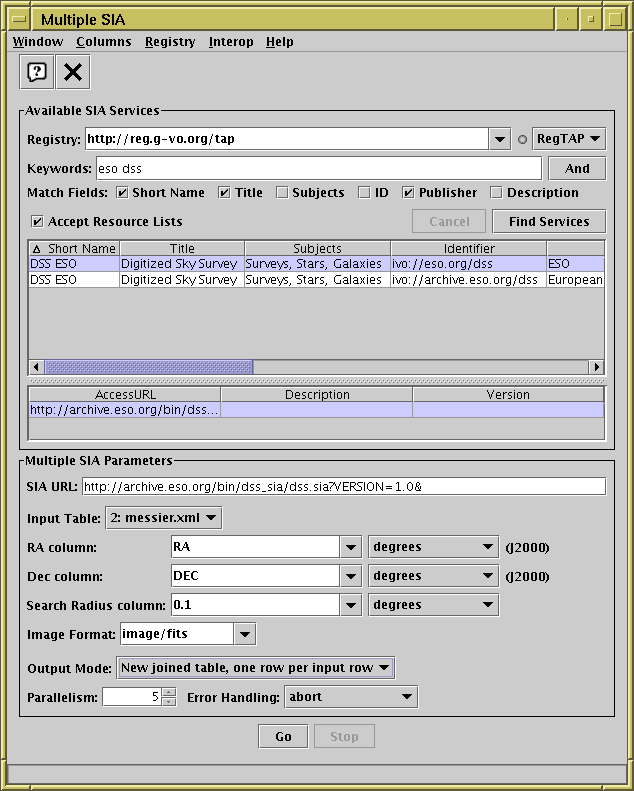
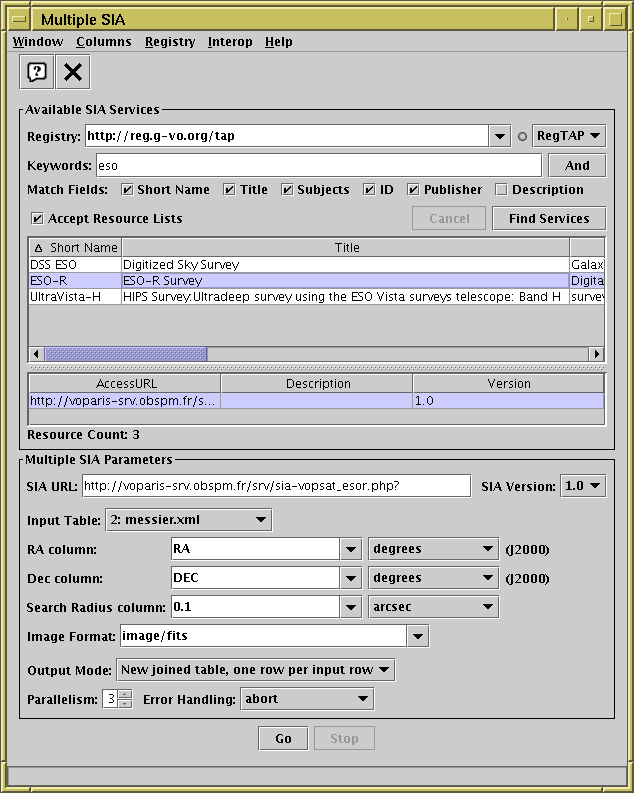
topcat: add basic SIAv2 support
The single and multiple SIA query windows will now pick up SIA
version 2 services in the registry search alongside version 1 services,
and will execute positional queries on them using a v2-compliant URL.
A little version selector/indicator component is displayed alongside
the URL.

This doesn't give you access to the upgraded features of SIAv2,
but do let you perform positional queries against services supporting
the newer protocol version as well as the older one.

diff --git a/vo/src/main/uk/ac/starlink/vo/SiapTableLoadDialog.java b/vo/src/main/uk/ac/starlink/vo/SiapTableLoadDialog.java
@@ -9,6 +9,8 @@ import javax.swing.Box;
 import javax.swing.JComboBox;
 import javax.swing.JComponent;
 import javax.swing.JLabel;
+import javax.swing.event.ListSelectionEvent;
+import javax.swing.event.ListSelectionListener;
 import uk.ac.starlink.table.DefaultValueInfo;
 import uk.ac.starlink.table.DescribedValue;
 import uk.ac.starlink.table.StarTable;
@@ -34,7 +36,8 @@ public class SiapTableLoadDialog extends SkyDalTableLoadDialog {
     private DoubleValueField raField_;
     private DoubleValueField decField_;
     private DoubleValueField sizeField_;
-    private JComboBox<String> formatSelector_;
+    private JComboBox<Object> formatSelector_;
+    private JComboBox<SiaVersion> versionSelector_;
     private static final ValueInfo SIZE_INFO =
         new DefaultValueInfo( "Angular Size", Double.class,
                               "Angular size of the search region"
@@ -60,9 +63,35 @@ public class SiapTableLoadDialog extends SkyDalTableLoadDialog {
         sizeField_.getEntryField().setText( "0" );
         skyEntry.addField( sizeField_ );
 
+        /* Version selector. */
+        versionSelector_ = new JComboBox<>( SiaVersion.values() );
+        final RegistryPanel regPanel = getRegistryPanel();
+        ListSelectionListener serviceListener = new ListSelectionListener() {
+            public void valueChanged( ListSelectionEvent evt ) {
+                RegCapabilityInterface[] intfs =
+                    regPanel.getSelectedCapabilities();
+                if ( intfs.length == 1 ) {
+                    SiaVersion version = SiaVersion.forInterface( intfs[ 0 ] );
+                    if ( version != null ) {
+                        versionSelector_.setSelectedItem( version );
+                    }
+                }
+            }
+        };
+        regPanel.getResourceSelectionModel()
+                .addListSelectionListener( serviceListener );
+        regPanel.getCapabilitySelectionModel()
+                .addListSelectionListener( serviceListener );
+        JComponent versionLine = Box.createHorizontalBox();
+        versionLine.add( Box.createHorizontalStrut( 10 ) );
+        versionLine.add( new JLabel( "SIA Version: " ) );
+        versionLine.add( new ShrinkWrapper( versionSelector_ ) );
+        getServiceUrlBox().add( versionLine );
+
         /* Add a selector for image format. */
         JComponent formatLine = Box.createHorizontalBox();
-        formatSelector_ = new JComboBox<String>( getFormatOptions() );
+        formatSelector_ =
+            new JComboBox<Object>( SiaFormatOption.getStandardOptions() );
         formatSelector_.setEditable( true );
         formatSelector_.setSelectedIndex( 0 );
         formatLine.add( new JLabel( "Image Format: " ) );
@@ -74,18 +103,16 @@ public class SiapTableLoadDialog extends SkyDalTableLoadDialog {
     }
 
     public TableLoader createTableLoader() {
-        String serviceUrl = getServiceUrl();
+        final String serviceUrl = getServiceUrl();
         checkUrl( serviceUrl );
-        double ra = raField_.getValue();
-        double dec = decField_.getValue();
-        double size = sizeField_.getValue();
-        final DalQuery query =
-            new DalQuery( serviceUrl, "SIA", ra, dec, size, coding_ );
-        Object format = formatSelector_.getSelectedItem();
-        if ( format instanceof String &&
-             format.toString().trim().length() > 0 ) {
-            query.addArgument( "FORMAT", format.toString() );
-        }
+        final double ra = raField_.getValue();
+        final double dec = decField_.getValue();
+        final double size = sizeField_.getValue();
+        final SiaVersion siaVersion =
+            versionSelector_.getItemAt( versionSelector_.getSelectedIndex() );
+        final SiaFormatOption format =
+            SiaFormatOption.fromObject( formatSelector_.getSelectedItem() );
+
         final List<DescribedValue> metadata = new ArrayList<DescribedValue>();
         metadata.addAll( Arrays.asList( new DescribedValue[] {
             raField_.getDescribedValue(),
@@ -97,31 +124,15 @@ public class SiapTableLoadDialog extends SkyDalTableLoadDialog {
         return new TableLoader() {
             public TableSequence loadTables( StarTableFactory factory )
                     throws IOException {
-                StarTable st = query.execute( factory );
+                StarTable st =
+                    siaVersion.executeQuery( serviceUrl, ra, dec, size, format,
+                                             factory, coding_ );
                 st.getParameters().addAll( metadata );
                 return Tables.singleTableSequence( st );
             }
             public String getLabel() {
                 return summary;
             }
-        };
-    }
-
-    /**
-     * Returns the list of standard options provided by the Format selector.
-     * These are taken from the SIA standard; they are not exhaustive, but
-     * represent some of the more useful options.  The user is able to
-     * enter custom items as an alternative.
-     * The first element in the returned list is a reasonable default.
-     *
-     * @return  format option strings
-     */
-    public static String[] getFormatOptions() {
-        return new String[] {
-            "image/fits",
-            "GRAPHIC",
-            "ALL",
-            "",
         };
     }
 }

diff --git a/topcat/src/main/uk/ac/starlink/topcat/join/SiaMultiWindow.java b/topcat/src/main/uk/ac/starlink/topcat/join/SiaMultiWindow.java
@@ -8,6 +8,8 @@ import javax.swing.JComboBox;
 import javax.swing.JComponent;
 import javax.swing.JLabel;
 import javax.swing.JPanel;
+import javax.swing.event.ListSelectionEvent;
+import javax.swing.event.ListSelectionListener;
 import uk.ac.starlink.table.DefaultValueInfo;
 import uk.ac.starlink.table.StarTableFactory;
 import uk.ac.starlink.table.ValueInfo;
@@ -18,6 +20,7 @@ import uk.ac.starlink.ttools.cone.SiaConeSearcher;
 import uk.ac.starlink.util.ContentCoding;
 import uk.ac.starlink.util.gui.ShrinkWrapper;
 import uk.ac.starlink.vo.Capability;
+import uk.ac.starlink.vo.RegCapabilityInterface;
 import uk.ac.starlink.vo.RegistryPanel;
 import uk.ac.starlink.vo.SiaFormatOption;
 import uk.ac.starlink.vo.SiaVersion;
@@ -46,18 +49,21 @@ public class SiaMultiWindow extends DalMultiWindow {
      */
     private static class SiaMultiService implements DalMultiService {
 
-        @SuppressWarnings({"unchecked","rawtypes"})
-        private final JComboBox formatSelector_
-            = new JComboBox( SiapTableLoadDialog.getFormatOptions() );
-
+        private final JComboBox<Object> formatSelector_;
+        private final JComboBox<SiaVersion> versionSelector_;
         private final JComponent controlBox_;
+        private final JComponent versionBox_;
 
         /**
          * Constructor.
          */
         SiaMultiService() {
+            formatSelector_ =
+                new JComboBox<Object>( SiaFormatOption.getStandardOptions() );
             formatSelector_.setSelectedIndex( 0 );
             formatSelector_.setEditable( true );
+
+            versionSelector_ = new JComboBox<>( SiaVersion.values() );
 
             final JLabel formatLabel = new JLabel( "Image Format: " );
             controlBox_ = new JPanel() {
@@ -74,6 +80,10 @@ public class SiaMultiWindow extends DalMultiWindow {
             line.add( new ShrinkWrapper( formatSelector_ ) );
             line.add( Box.createHorizontalGlue() );
             controlBox_.add( line );
+
+            versionBox_ = Box.createHorizontalBox();
+            versionBox_.add( new JLabel( "SIA Version: " ) );
+            versionBox_.add( new ShrinkWrapper( versionSelector_ ) );
         }
 
         public String getName() {
@@ -116,15 +126,33 @@ public class SiaMultiWindow extends DalMultiWindow {
         }
 
         public JComponent getVersionComponent() {
-            return null;
+            return versionBox_;
         }
 
-        public void init( RegistryPanel regPanel ) {
+        public void init( final RegistryPanel regPanel ) {
+            ListSelectionListener servListener = new ListSelectionListener() {
+                public void valueChanged( ListSelectionEvent evt ) {
+                    RegCapabilityInterface[] intfs =
+                        regPanel.getSelectedCapabilities();
+                    if ( intfs.length == 1 ) {
+                        SiaVersion vers = SiaVersion.forInterface( intfs[ 0 ] );
+                        if ( vers != null ) {
+                            versionSelector_.setSelectedItem( vers );
+                        }   
+                    }
+                }
+            };
+            regPanel.getResourceSelectionModel()
+                    .addListSelectionListener( servListener );
+            regPanel.getCapabilitySelectionModel()
+                    .addListSelectionListener( servListener );
         }
 
         public ConeSearcher createSearcher( URL url, StarTableFactory tfact,
                                             ContentCoding coding ) {
-            SiaVersion version = SiaVersion.V10;
+            SiaVersion version = 
+                versionSelector_
+               .getItemAt( versionSelector_.getSelectedIndex() );
             SiaFormatOption format =
                 SiaFormatOption.fromObject( formatSelector_.getSelectedItem() );
             return new SiaConeSearcher( url.toString(), version, format,

diff --git a/vo/src/main/uk/ac/starlink/vo/DalTableLoadDialog.java b/vo/src/main/uk/ac/starlink/vo/DalTableLoadDialog.java
@@ -42,6 +42,7 @@ public abstract class DalTableLoadDialog
     private final boolean autoQuery_;
     private final RegistryQueryFactory queryFactory_;
     private JTextField urlField_;
+    private JComponent urlBox_;
     private static final Logger logger_ =
         Logger.getLogger( "uk.ac.starlink.vo" );
 
@@ -84,10 +85,10 @@ public abstract class DalTableLoadDialog
          * registry search, but it may alternatively be filled by the
          * user typing (or cut'n'pasting) into it. */
         urlField_ = new JTextField();
-        JComponent urlBox = Box.createHorizontalBox();
-        urlBox.add( new JLabel( protoName_ + " URL: " ) );
-        urlBox.add( urlField_ );
-        getControlBox().add( urlBox );
+        urlBox_ = Box.createHorizontalBox();
+        urlBox_.add( new JLabel( protoName_ + " URL: " ) );
+        urlBox_.add( urlField_ );
+        getControlBox().add( urlBox_ );
         getControlBox().add( Box.createVerticalStrut( 5 ) );
 
         /* Fix it so that a resource selection populates the service
@@ -192,6 +193,15 @@ public abstract class DalTableLoadDialog
      */
     public JTextField getServiceUrlField() {
         return urlField_;
+    }
+
+    /**
+     * Returns the component in which the URL selector is located.
+     *
+     * @return  URL selector container
+     */
+    public JComponent getServiceUrlBox() {
+        return urlBox_;
     }
 
     /**

diff --git a/vo/src/main/uk/ac/starlink/vo/Capability.java b/vo/src/main/uk/ac/starlink/vo/Capability.java
@@ -17,7 +17,11 @@ public class Capability {
 
     /** Simple Image Access capability. */
     public static final Capability SIA =
-        new Capability( "ivo://ivoa.net/std/SIA", "SimpleImageAccess" );
+        new Capability( new String[] {
+                           SiaVersion.V10.getStandardId(),
+                           SiaVersion.V20.getStandardId(),
+                        },
+                        "SimpleImageAccess" );
 
     /** Simple Spectral Access capability. */
     public static final Capability SSA =
